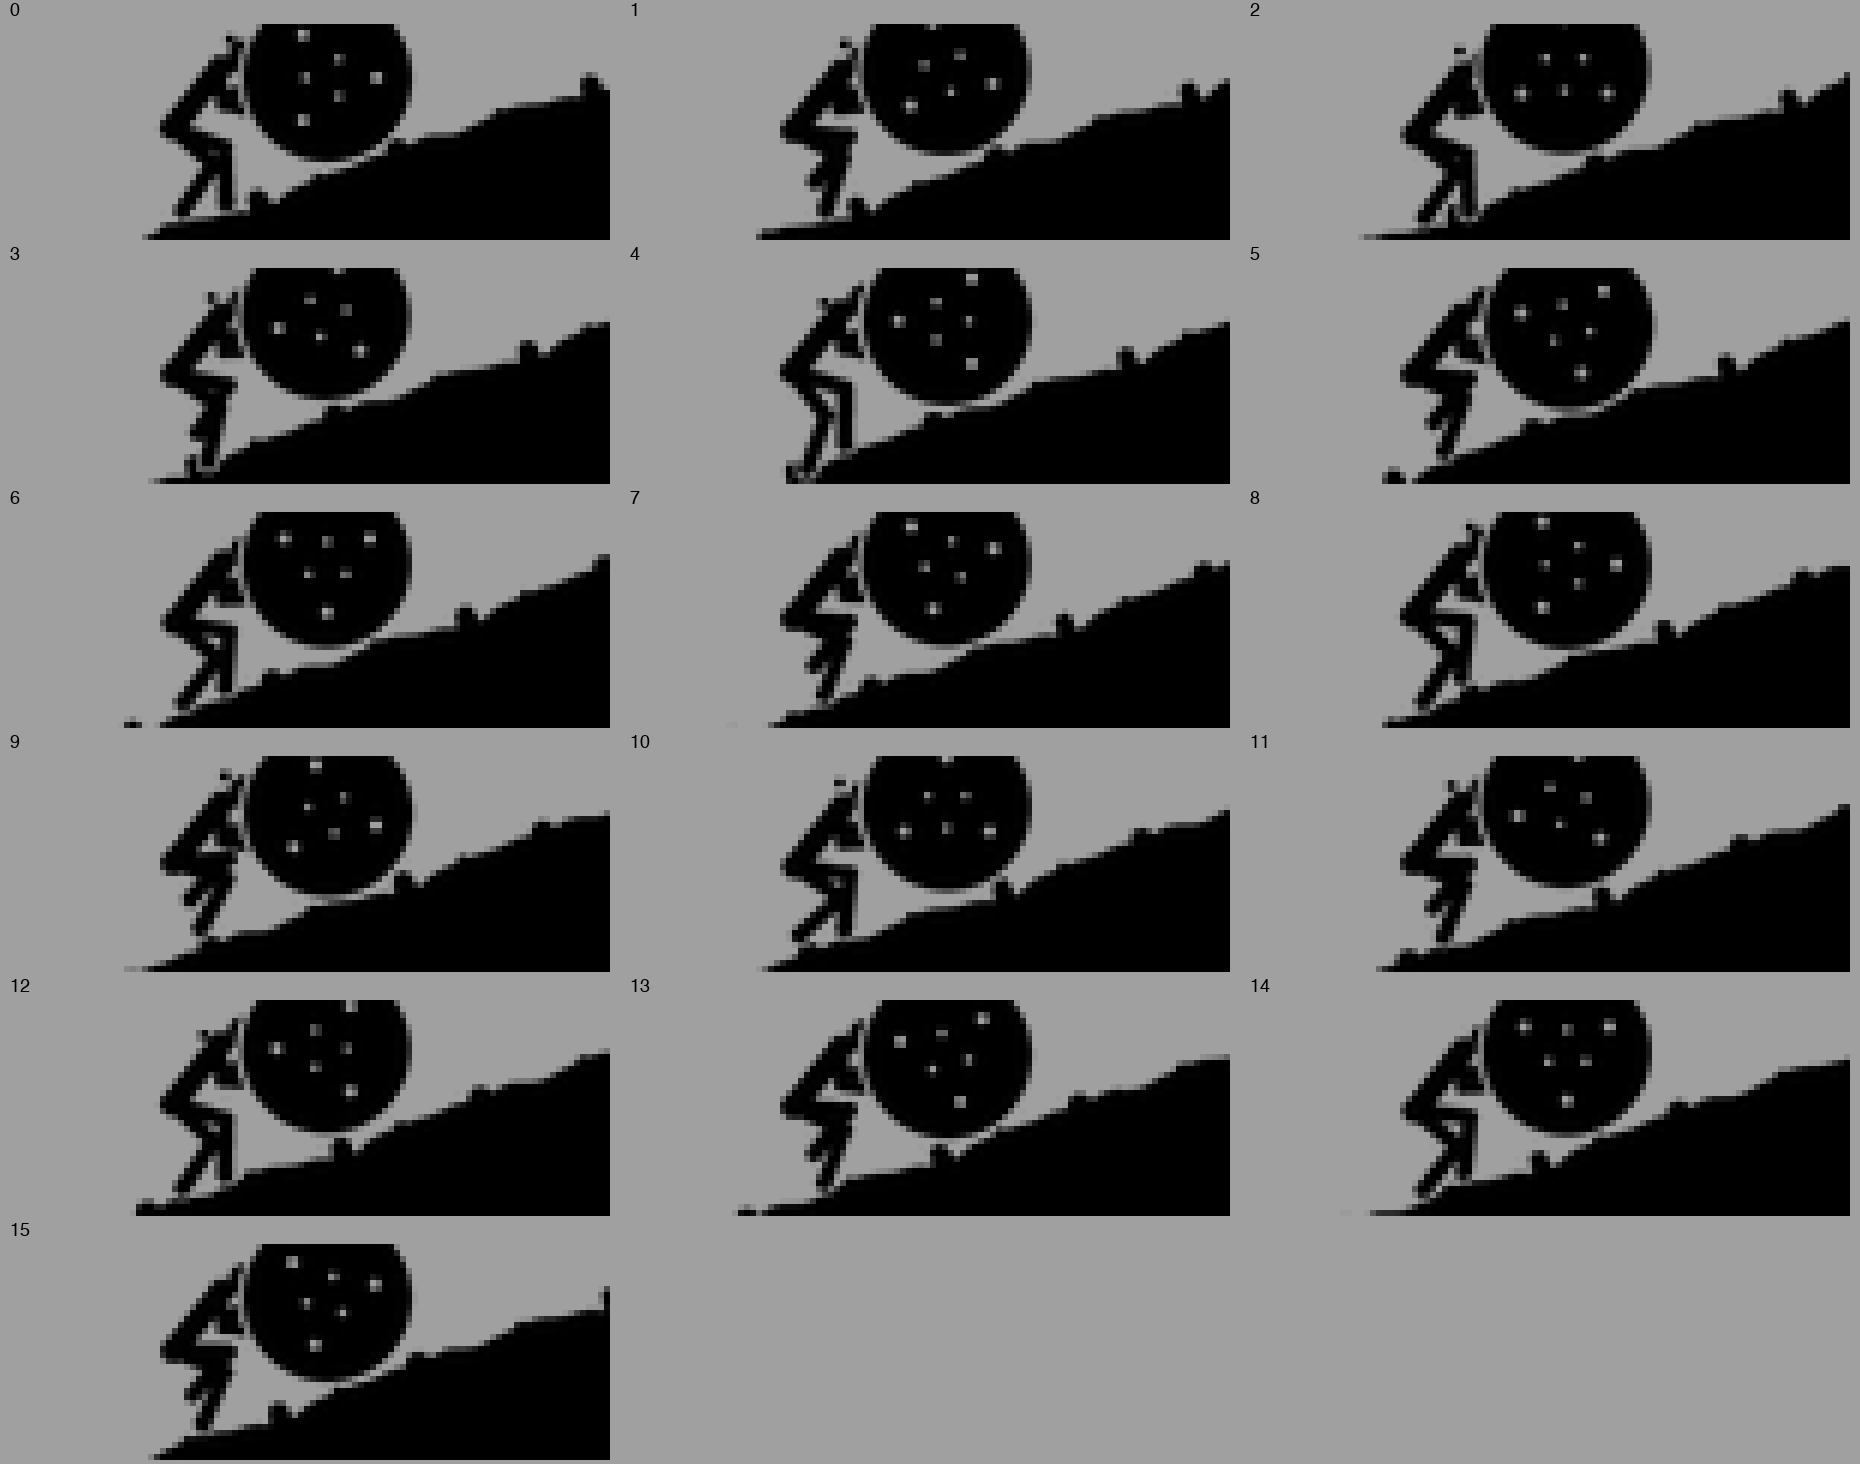
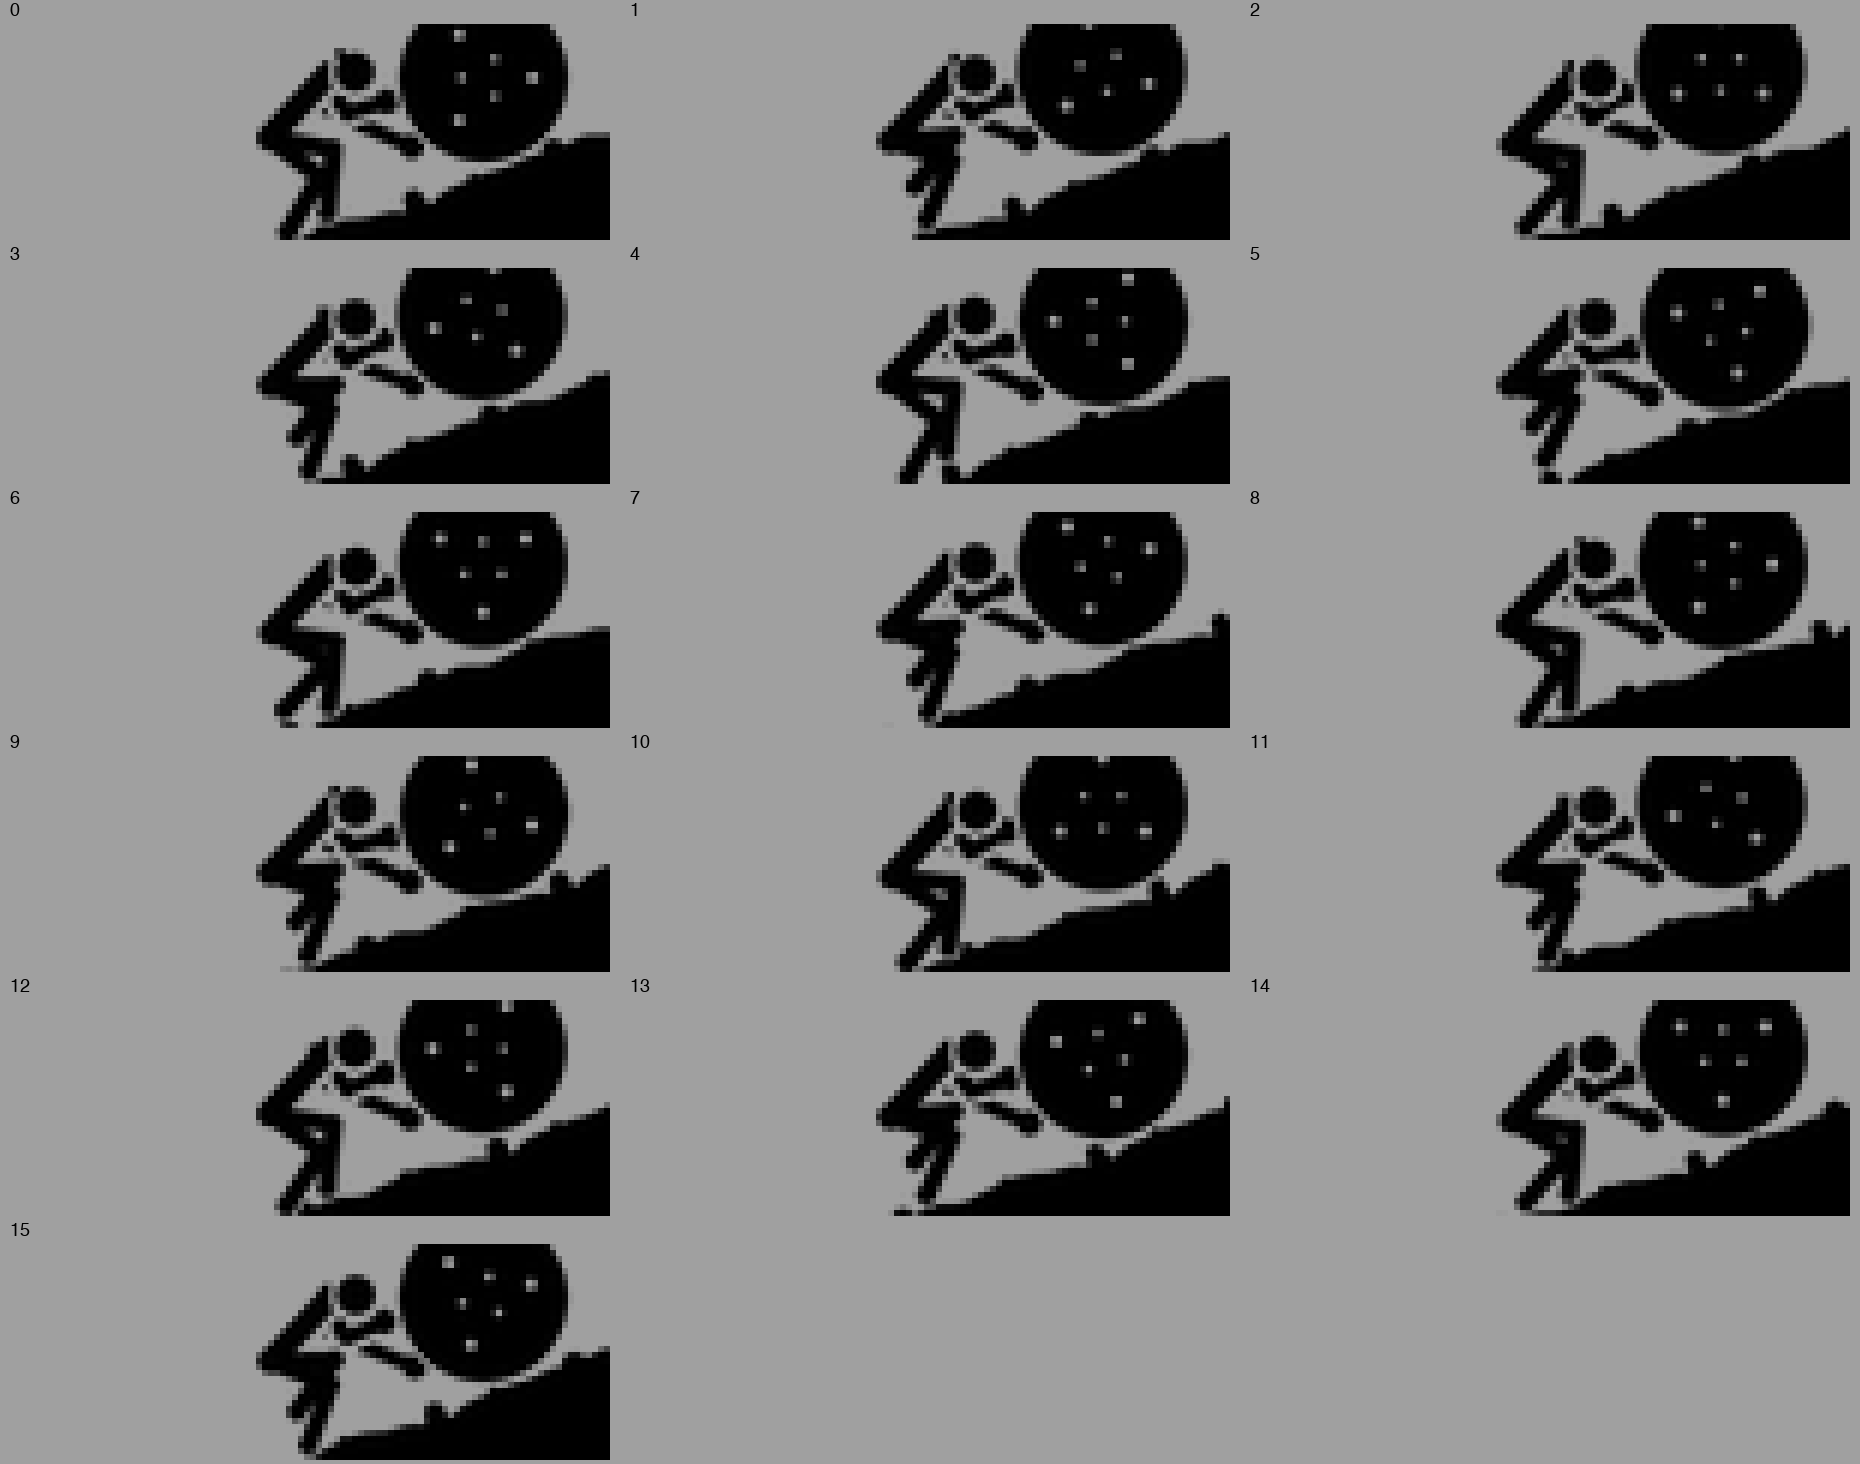
feat: center Sisyphus-endless on the man with clearer head and hands

diff --git a/scratchpad/sisyphus/gen.py b/scratchpad/sisyphus/gen.py
@@ -327,12 +327,13 @@ def frame_circus(i, rx, fx, mode, ry):
 # slipping (15 deg per frame), so 16 frames = 2 foot cycles = 2/3 boulder turn = one bump period.
 ENF = 16
 ER = 14.0                          # boulder radius (old close-up: 11.8)
-SC = ER / 12.6                     # figure scale (the figure was drawn for ER 12.6)
+SC = 1.15 * ER / 12.6              # figure scale (drawn for ER 12.6, enlarged 15% for the close-up)
 ECROP = 6.5                        # px of the boulder's top cut off by the canvas top edge
+EOX = 84.0                         # canvas x of the boulder centre (man sits at the middle, boulder to his right)
 ETH = math.radians(19)             # slope angle
 GS = ER * math.radians(15)         # ground scroll per frame = rolling distance at 15 deg per frame
 EPER = ENF * GS                    # bump pattern period (= total scroll over the loop)
-EO = [58.0, 0.0]                   # canvas point of the boulder's contact with the mean slope line (y set below)
+EO = [EOX, 0.0]                   # canvas point of the boulder's contact with the mean slope line (y set below)
 
 def W(s, n):
     return (EO[0] + s * math.cos(ETH) - n * math.sin(ETH), EO[1] - s * math.sin(ETH) - n * math.cos(ETH))
@@ -362,8 +363,8 @@ def sis_man(d, i, sc, hs, hn, ap):
     m = SC
     ta = math.radians(ap)
     sh = (hs + 11.5 * m * math.sin(ta), hn + 11.5 * m * math.cos(ta))
-    head = (sh[0] + 4.0 * m * math.sin(ta + .5), sh[1] + 4.0 * m * math.cos(ta + .5))
-    line(d, W(hs, hn), W(*sh), 3.6 * m)
+    head = (sh[0] + 3.2 * m, sh[1] - 0.9 * m)   # canvas offset: ahead of and above the shoulder
+    line(d, W(hs, hn), W(*sh), 3.2 * m)
     for ph in (0, 2):
         u = (i + ph) % 4
         tri = u if u <= 2 else 4 - u   # stance 2 frames backwards with the ground, swing 2 frames forwards
@@ -386,20 +387,35 @@ def frame_endless(i):
     rh = ER + 0.9
     cn = boulder_n(sc)
     cxy = W(0, cn)
-    hs, ap = -24.5 * SC, 58.0
-    hn = 14.0 * SC + 0.6 * math.cos(2 * math.pi * i / 4)
+    hs, ap = -29.0 * SC, 62.0
+    hn = 13.4 * SC + 0.6 * math.cos(2 * math.pi * i / 4)
+    bm = Image.new("L", (Wd, Ht), 0)
+    shw, head = sis_man(ImageDraw.Draw(bm), i, sc, hs, hn, ap)
+    HR = 2.5 * SC                      # head radius
+    # head: own blob, tucked toward the boulder, thin gap to the torso and arms
+    hm = Image.new("L", (Wd, Ht), 0)
+    ImageDraw.Draw(hm).ellipse([P(head[0] - HR, head[1] - HR), P(head[0] + HR, head[1] + HR)], fill=255)
+    # arms: bent, hands (palm blobs) flat on the boulder's left flank just outside its halo
+    am = Image.new("L", (Wd, Ht), 0)
+    hipc = W(hs, hn)
+    for al, f in ((-14, 0.92), (-44, 0.62)):
+        a = math.radians(al)
+        ext = 0.5 * math.sin(2 * math.pi * i / 4) * (1 if al == -14 else -1)
+        hxy = (cxy[0] - (rh + 1.7) * math.cos(a) + ext, cxy[1] - (rh + 1.7) * math.sin(a))
+        st = (hipc[0] + f * (shw[0] - hipc[0]), hipc[1] + f * (shw[1] - hipc[1]))   # chest point on the torso axis
+        el = ik(st, hxy, 5.4 * SC, 5.4 * SC, 1)
+        a2 = Image.new("L", (Wd, Ht), 0)
+        ad = ImageDraw.Draw(a2)
+        line(ad, st, el, 2.0 * SC); line(ad, el, hxy, 2.0 * SC)
+        ad.ellipse([P(hxy[0] - 2.0, hxy[1] - 2.0), P(hxy[0] + 2.0, hxy[1] + 2.0)], fill=255)
+        a2.paste(0, mask=am.filter(ImageFilter.MaxFilter(17)))   # thin gap between the two arms
+        am.paste(255, mask=a2)
+    am.paste(0, mask=bm.filter(ImageFilter.MaxFilter(17)))
+    am.paste(0, mask=hm.filter(ImageFilter.MaxFilter(17)))
+    bm.paste(0, mask=hm.filter(ImageFilter.MaxFilter(17)))
     mm = Image.new("L", (Wd, Ht), 0)
     md = ImageDraw.Draw(mm)
-    shw, head = sis_man(md, i, sc, hs, hn, ap)
-    # arms: shoulder to two hand spots on the boulder's left flank
-    for al in (-4, -26):
-        a = math.radians(al)
-        hxy = (cxy[0] - (ER - 0.9) * math.cos(a), cxy[1] - (ER - 0.9) * math.sin(a))
-        ext = 0.5 * math.sin(2 * math.pi * i / 4) * (1 if al == -4 else -1)
-        hxy = (hxy[0] + ext, hxy[1])
-        el = ik((shw[0] - 0.6, shw[1] + 0.6), hxy, 5.0 * SC, 5.0 * SC, 1)
-        line(md, (shw[0] - 0.6, shw[1] + 0.6), el, 2.1 * SC); line(md, el, hxy, 2.1 * SC)
-    md.ellipse([P(head[0] - 2.6 * SC, head[1] - 2.6 * SC), P(head[0] + 2.6 * SC, head[1] + 2.6 * SC)], fill=255)
+    for L in (bm, am, hm): mm.paste(255, mask=L)
     t = i % 8
     if t < 5:   # sweat drop flicked off the head
         sx, sy = head[0] - 2.4 - 1.1 * t, head[1] - 3.0 + 0.2 * t * t
